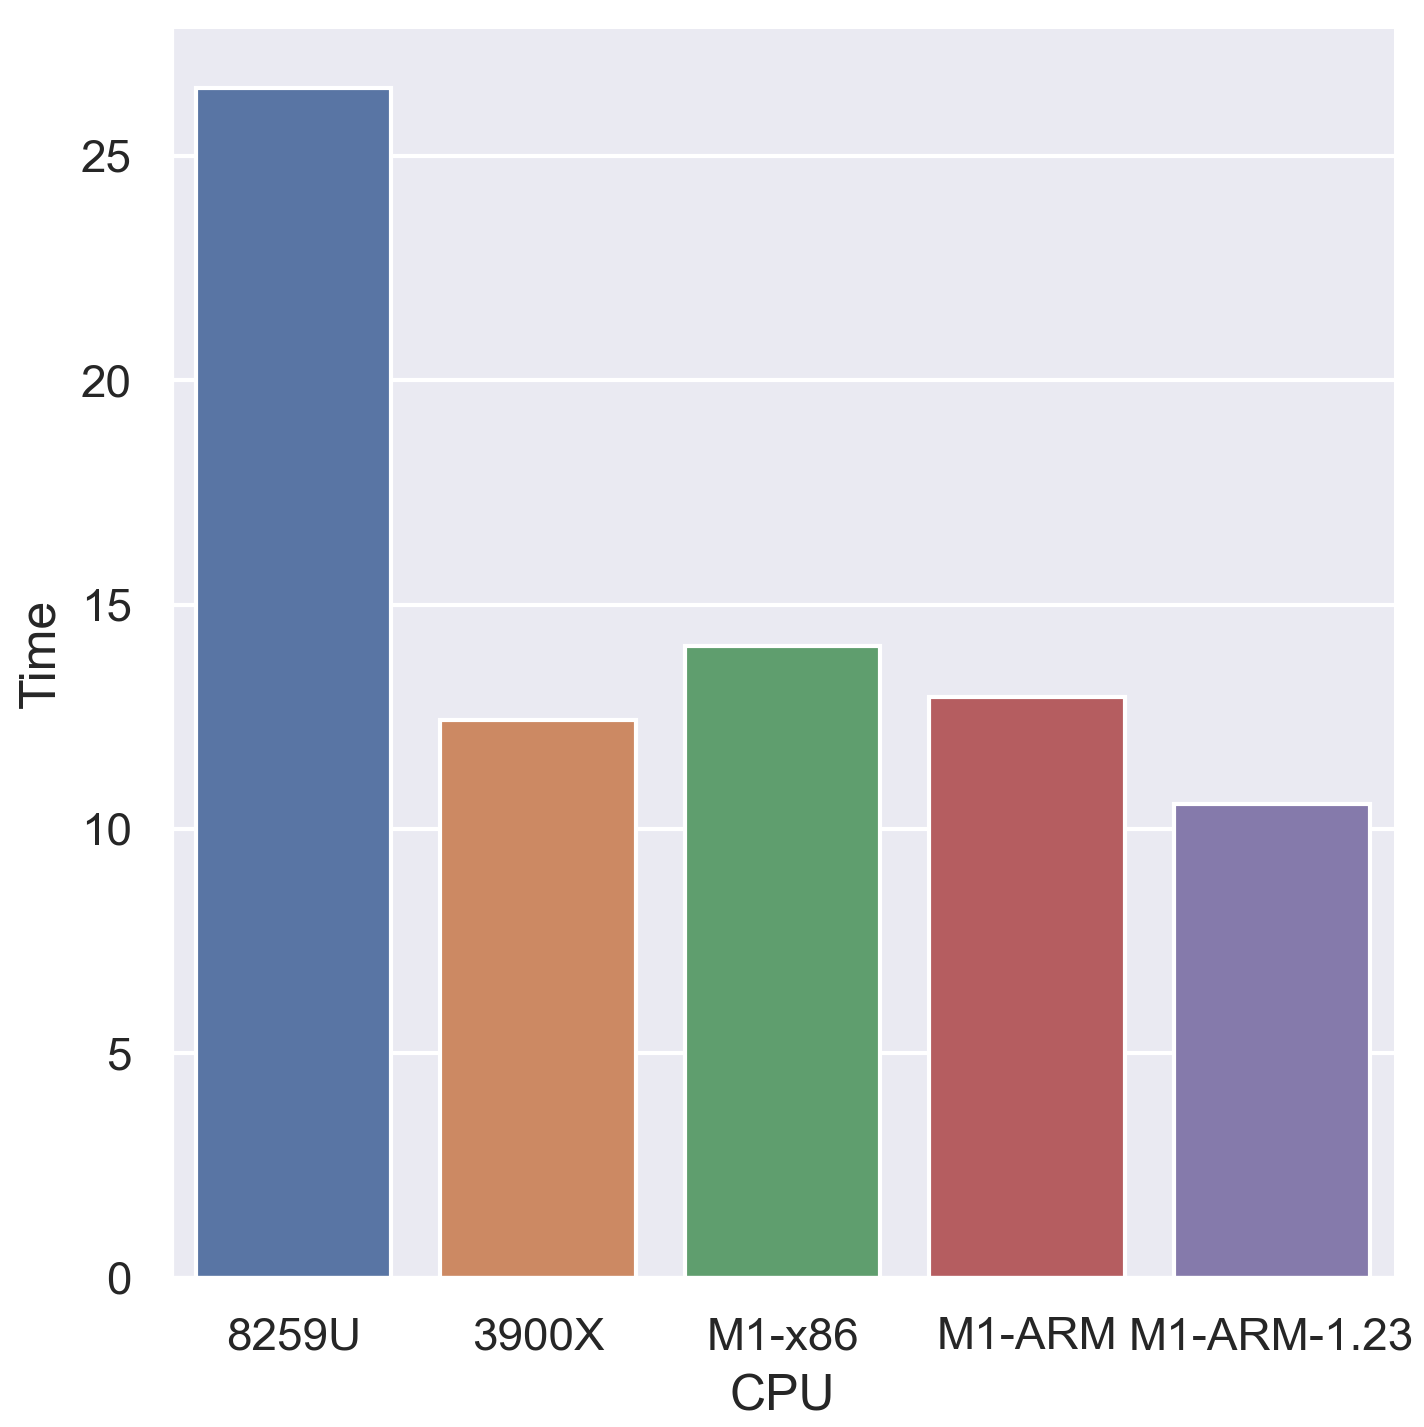
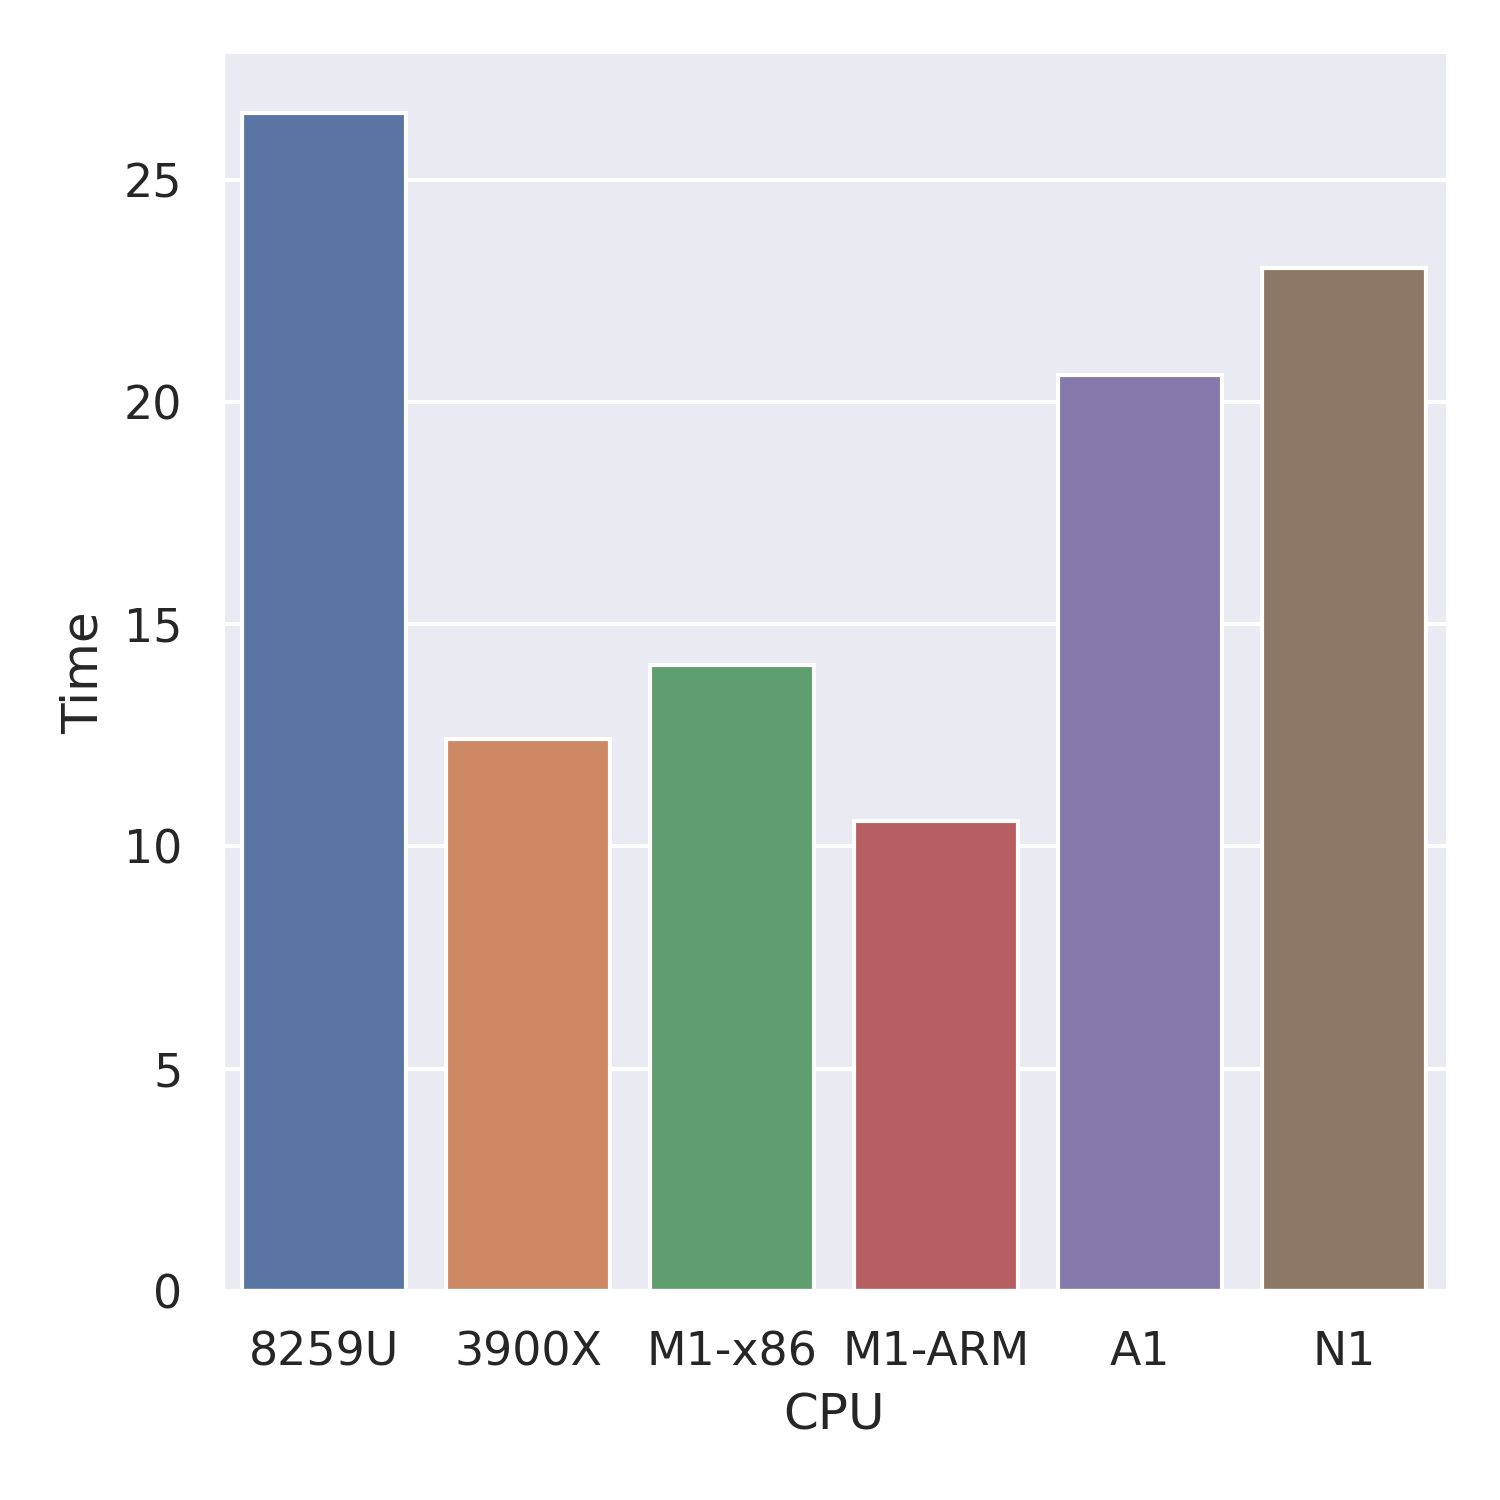
Include new Graviton N1 and Altra A1 details

Changed region(s): [[0.0, 0.0617, 0.9888, 0.9867], [0.0618, 0.8942, 0.0927, 0.925]]

diff --git a/nibabel_graph.py b/nibabel_graph.py
@@ -2,6 +2,8 @@
 # -*- coding: utf-8 -*-
 
 #plot geometric mean for nibabel tests (see nibabel.tsv)
+# can be generated online:
+#  https://www.codabrainy.com/en/python-compiler/
 
 import pandas as pd
 import seaborn as sns
@@ -10,8 +12,8 @@ import matplotlib.pyplot as plt
 #MacBook i5-8259U
 #Ubuntu i7-8700K
 #Ubuntu 3900X
-df = pd.DataFrame({'CPU': ['8259U','3900X','M1-x86', 'M1-ARM', 'M1-ARM-1.23',],
-					'Time': [26.5, 12.418, 14.08, 12.934, 10.563]})
+df = pd.DataFrame({'CPU': ['8259U','3900X', 'M1-x86', 'M1-ARM','A1','N1'],
+					'Time': [26.5, 12.418, 14.08, 10.563, 20.6, 23.0]})
 sns.set()
 ax = sns.catplot(x="CPU", y="Time", kind="bar", data=df)
 plt.savefig('nibabel.png', dpi=300)

diff --git a/README.md b/README.md
@@ -100,11 +100,11 @@ The second test examines the GPU compute performance, looking at generation of t
 
 [NiBabel](https://nipy.org/nibabel/) is a collection of neuroimaging related Python scripts and utilities. It provides [benchmarks](https://nipy.org/nibabel/reference/nibabel.benchmarks.html) for performance and regression testing.
 
-[Python natively supports the M1](https://github.com/conda-forge/miniforge#download) including native support for many popular libraries including numpy and scipy (though not [DIPY](https://github.com/tee-ar-ex/trx-python/issues/23)). Users will want to ensure that they install numpy 1.23 or later [to exploit SIMD optimizations](https://github.com/numpy/numpy/issues/17989)).
+Python natively supports the M1] including native support for many popular libraries including numpy and scipy (though not [DIPY](https://github.com/tee-ar-ex/trx-python/issues/23)). Users will want to ensure that they install numpy 1.23 or later [to exploit SIMD optimizations](https://github.com/numpy/numpy/issues/17989)).
 
 Note that many Python libraries do not yet support this hardware, so in practice you will have to disable this version for many tasks (`conda deactivate`). It does seem like packages that do not install with `pip` can be installed using commands of the form [`conda install opencv`](https://github.com/neurolabusc/AppleSiliconForNeuroimaging/issues/2).
 
-The graph shows the geometric mean for the benchmarks with lower values indicating faster performance.
+The graph shows the geometric mean for the benchmarks with lower values indicating faster performance. This graph includes performance for two cloud-based ARM CPUs: the Amazon Graviton Neoverse-N1 and the [Oracle cloud Ampere Altra A1](https://github.com/brainhackorg/brainhack_cloud).
  
 ![nibabel](nibabel.png)
 
@@ -151,6 +151,7 @@ Ryzen 3900X 12-core 3.8-4.6GHz      21981       1     cr           gcc 9.3      
 Intel Xeon 8358 64-core 2.6-3.4 GHz 34091       1     cr           gcc 11.2                 Ubuntu 22.04. Default make settings
 AMD EPYC 7551 32-core 2.0-2.55 GHz  34430       1     cr           gcc 11.2                 Ubuntu 22.04. Default make settings
 Ampere Altra A1 3.0GHz 160-core     34563       1     cr           gcc 8.5.0                Oracle Linux 8.6
+Amazon Graviton Neoverse-N1         41342       1     cr           gcc 11.2                 Ubuntu 22.04. Default make settings
 Intel i5-8259u 4-core 2.3GHz        72753       1     cr           clang version 11.0.0     macOS 10.14. Default make settings
 ...
 O2 R12K/400 (2MB)                  880381       1     mapesdhs     -                        IRIX
@@ -225,8 +226,7 @@ Here is the status of a few tools I have evaluated. This selection is necessaril
    - [FSL](https://fsl.fmrib.ox.ac.uk/fsl/fslwiki/)
    - [Slicer](https://discourse.slicer.org/t/mac-m1-support/17545)
    - [SPM12](https://www.fil.ion.ucl.ac.uk/spm/software/spm12/)
- - Unsupported
-   - [Paraview](https://www.paraview.org) (solution: use version [prior to 5.6.1](https://discourse.paraview.org/t/paraview-on-new-macs-with-m1-chips/5909/9))
+   - [Paraview](https://www.paraview.org) (use [arm64 release](https://discourse.paraview.org/t/paraview-on-new-macs-with-m1-chips/5909/9))
    - [MRtrix mrview geometry shaders](https://github.com/MRtrix3/mrtrix3/issues/2247)
 
 ## Late 2021 Update: M1 Pro and M1 Max
